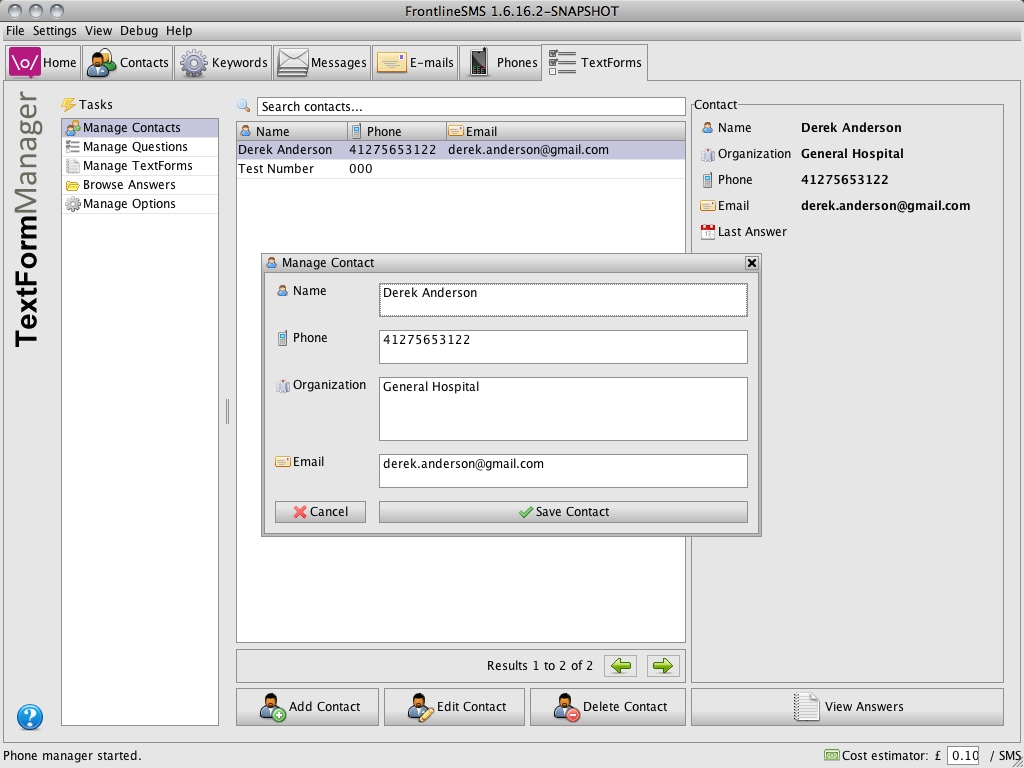
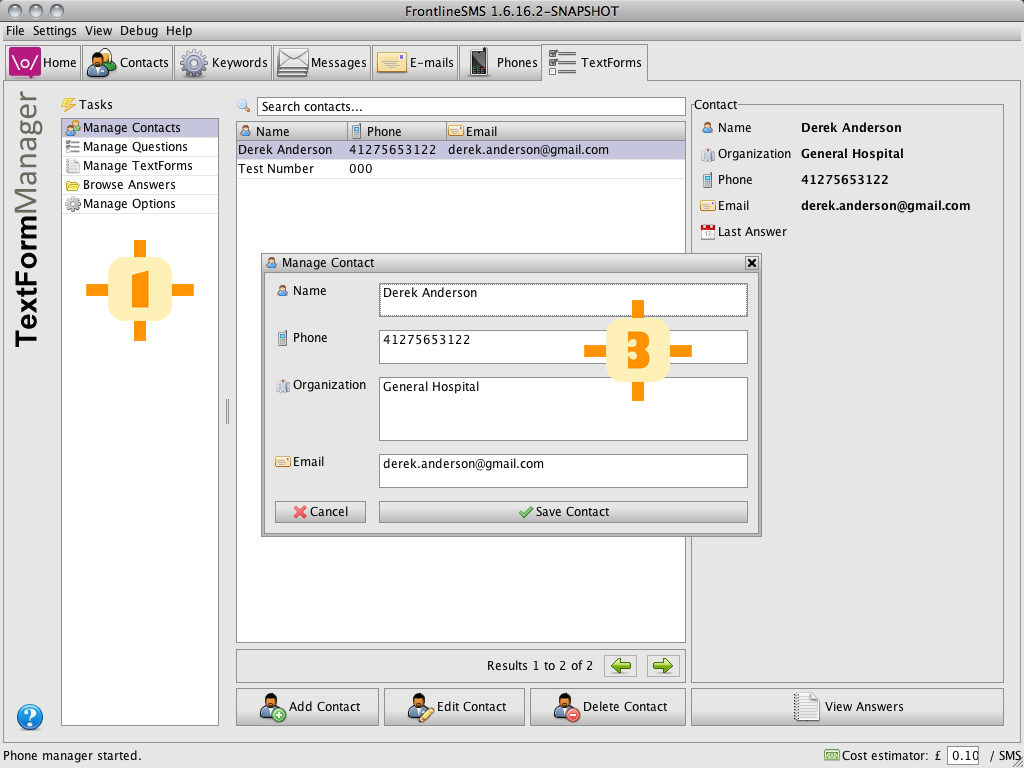
Updated Help document

Changed region(s): [[0.0625, 0.3125, 0.1875, 0.4375], [0.5625, 0.375, 0.6875, 0.5312]]

diff --git a/help/textforms.htm b/help/textforms.htm
@@ -11,7 +11,7 @@
 		</div>
 		<div class="content">
 			<h1>TextForms</h1>
-			<h4>The TextForms plugin allows complex data gathering and simple type validation via SMS.</h4>
+			<h4>The TextForms plugin allows data gathering and type validation via SMS.</h4>
 			<img border="0" src="img/textforms-questions.jpg" vspace="5">
 			
 			<h2>What can I do with the TextForms?</h2>
@@ -47,7 +47,7 @@
 			<h2>Manage Contacts</h2>
 			<h3>
 				The Manage Contacts task allows you to add a new contact, edit an existing contact or delete a contact.
-				Selecting a contact from the list will also display their details in the right pane.
+				Selecting a contact from the list <span class="reference">2</span> will also display their details in the right pane.
 				<br/>
 				<br/>
 				Clicking the View Answers button will open the Browse Answers task for the currently selected Contact showing all the answers they have submitted.
@@ -59,8 +59,11 @@
 			
 			<h2>Add / Edit Contact</h2>
 			<h3>
-				Clicking the Add Contact button will present the Contact dialog allowing you to enter their Name, Phone, Organization and Email.
-				To edit an existing contact, double-click a contact from the list or select a contact then click the Edit Contact button.
+				Clicking the Add Contact button will present the Contact dialog <span class="reference">3</span> allowing you to enter their Name, Phone, Organization and Email.
+				To edit an existing contact, double-click a contact from the list or select a contact then click the Edit Contact button.	
+			</h3>
+			<img border="0" src="img/textforms-add-contact.jpg" vspace="5">
+			<h3>
 				<ul>
 					<li><span class="highlight">Name</span> - the contact's name</li>
 					<li><span class="highlight">Phone</span> - the contact's phone</li>
@@ -68,12 +71,11 @@
 					<li><span class="highlight">Email</span> - the contact's email</li>
 				</ul>
 			</h3>
-			<img border="0" src="img/textforms-add-contact.jpg" vspace="5">
 			
 			<h2>Manage Questions</h2>
 			<h3>
 				The Manage Questions task allows you to add a new question, edit an existing question or delete a question.
-				Selecting a question from the list will also display that question's details in the right pane. 
+				Selecting a question from the list <span class="reference">4</span> will also display that question's details in the right pane. 
 				<br/>
 				<br/>
 				Clicking the View Answers button will open the Browse Answers task for the currently selected Question showing all the answers that have been submitted for that Question.
@@ -85,7 +87,7 @@
 			
 			<h2>Add / Edit Question</h2>
 			<h3>
-				Clicking the Add Question button will present the Question dialog allowing you to enter the question Name, Keyword, Schema, Choices and Phrase.
+				Clicking the Add Question button will present the Question dialog <span class="reference">5</span> allowing you to enter the question Name, Keyword, Schema, Choices and Phrase.
 				To edit an existing question, double-click a question from the list or select a question then click the Edit Question button.
 			</h3>
 			<img border="0" src="img/textforms-add-question.jpg" vspace="5">
@@ -103,7 +105,7 @@
 			<h2>Manage TextForms</h2>
 			<h3>
 				The Manage TextForms task allows you to add a new textform, edit an existing textform or delete a textform.
-				Selecting a textform from the list will also display that textform's details in the right pane.
+				Selecting a textform from the list <span class="reference">6</span> will also display that textform's details in the right pane.
 			</h3>
 			<img border="0" src="img/textforms-textforms.jpg" vspace="5">
 			<h3>
@@ -112,7 +114,7 @@
 			
 			<h2>Add / Edit TextForm</h2>
 			<h3>
-				Clicking the Add TextForm button will present the TextForm dialog allowing you to enter the textform Name, Keyword and Questions.
+				Clicking the Add TextForm button will present the TextForm dialog <span class="reference">7</span> allowing you to enter the textform Name, Keyword and Questions.
 				To edit an existing textform, double-click a textform from the list or select a textform then click the Edit TextForm button.
 			</h3>
 			<img border="0" src="img/textforms-add-textform.jpg" vspace="5">
@@ -126,16 +128,18 @@
 			
 			<h2>Browse Answers</h2>
 			<h3>
-				The Browse Answers task allows you to view and search through all the received responses.
+				The Browse Answers task allows you to view and search through all the received answers <span class="reference">8</span>.
 				<br/>
 				<br/>
-				You can filter contacts by entering a term into the Search contacts... textbox.
 			</h3>
 			<img border="0" src="img/textforms-answers.jpg" vspace="5">
+			<h3>
+				Note, you can filter answers by entering a term into the <i>Search answers...</i> textbox, specifying a specific date or selecting a contact from the list.
+			</h3>
 			
 			<h2>Manage Options</h2>
 			<h3>
-				The Manage Options has three main sections:
+				The Manage Options task has three main sections:
 				<br/>
 				<br/>
 				<b>Register / Help Keywords</b> - the accepted keywords to trigger registering a mobile device or requesting help information
@@ -153,7 +157,7 @@
 				<b>Upload Options</b> - the plugin can optionally upload received data to an external server
 				<ul>
 					<li><span class="highlight">URL</span> - the URL for external server you wish to upload to</li>
-					<li><span class="highlight">Handler</span> - the data type to be uploaded: XML, JSON, CSV or the Google specific XMl format for ResourceFinder</li>
+					<li><span class="highlight">Handler</span> - the data type handler <span class="reference">9</span> to be uploaded: XML, JSON, CSV or the Google-specific XML format used for ResourceFinder</li>
 				</ul>
 			</h3>
 			<img border="0" src="img/textforms-options.jpg" vspace="5">

diff --git a/src/main/java/net/frontlinesms/plugins/textforms/handler/RegisterHandler.java b/src/main/java/net/frontlinesms/plugins/textforms/handler/RegisterHandler.java
@@ -70,7 +70,7 @@ public class RegisterHandler extends MessageHandler {
 				try {
 					this.contactDao.updateContact(contact);
 					LOG.debug("Contact '%s' Updated: %s", contact.getName(), words[1]);
-					sendReply(message.getSenderMsisdn(), TextFormsMessages.getHandlerRegisterSuccessful(message.getSenderMsisdn()), true);
+					sendReply(message.getSenderMsisdn(), TextFormsMessages.getHandlerRegisterSuccessful(words[1], message.getSenderMsisdn()), true);
 					return true;
 				} 
 				catch (DuplicateKeyException ex) {
@@ -84,7 +84,7 @@ public class RegisterHandler extends MessageHandler {
 				try {
 					this.contactDao.saveContact(newContact);
 					LOG.debug("Contact '%s' Saved: %s", newContact.getName(), words[1]);
-					sendReply(message.getSenderMsisdn(), TextFormsMessages.getHandlerRegisterSuccessful(message.getSenderMsisdn()), true);
+					sendReply(message.getSenderMsisdn(), TextFormsMessages.getHandlerRegisterSuccessful(words[1], message.getSenderMsisdn()), true);
 					return true;
 				} 
 				catch (DuplicateKeyException ex) {
@@ -92,6 +92,9 @@ public class RegisterHandler extends MessageHandler {
 					sendReply(message.getSenderMsisdn(), TextFormsMessages.getHandlerErrorSaveContact(message.getSenderMsisdn()), true);
 				}
 			}
+		}
+		else if (words.length == 1) {
+			sendReply(message.getSenderMsisdn(), TextFormsMessages.getHandlerRegister(words[0]), true);
 		}
 		else {
 			sendReply(message.getSenderMsisdn(), TextFormsMessages.getHandlerRegister(TextFormsProperties.getRegisterKeywords()), true);

diff --git a/src/main/java/net/frontlinesms/plugins/textforms/TextFormsMessages.java b/src/main/java/net/frontlinesms/plugins/textforms/TextFormsMessages.java
@@ -13,12 +13,16 @@ public final class TextFormsMessages {
 		return String.format("%s : %s", getI18NString("plugins.textforms.handler.help"), arrayToString(keywords));
 	}
 	
-	public static String getHandlerRegister(String[] keywords) {
-		return String.format("%s : %s", getI18NString("plugins.textforms.handler.register"), arrayToString(keywords));
+	public static String getHandlerRegister(String keyword) {
+		return String.format("%s : %s %s", getI18NString("plugins.textforms.handler.register.keyword"), keyword, getI18NString("plugins.textforms.handler.register.organization"));
 	}
 	
-	public static String getHandlerRegisterSuccessful(String phoneNumber) {
-		return String.format("%s : %s", getI18NString("plugins.textforms.handler.register.successful"), phoneNumber);
+	public static String getHandlerRegister(String[] keywords) {
+		return String.format("%s : %s", getI18NString("plugins.textforms.handler.register.keywords"), arrayToString(keywords));
+	}
+	
+	public static String getHandlerRegisterSuccessful(String organization, String phoneNumber) {
+		return String.format("%s %s %s", organization, getI18NString("plugins.textforms.handler.register.successful"), phoneNumber);
 	}
 	
 	public static String getHandlerInvalidKeyword(String[] keywords) {

diff --git a/src/main/java/net/frontlinesms/plugins/textforms/upload/ResourceFinderUploader.java b/src/main/java/net/frontlinesms/plugins/textforms/upload/ResourceFinderUploader.java
@@ -2,7 +2,6 @@ package net.frontlinesms.plugins.textforms.upload;
 
 import java.text.DateFormat;
 import java.text.SimpleDateFormat;
-import java.util.ArrayList;
 import java.util.Arrays;
 import java.util.Calendar;
 import java.util.List;
